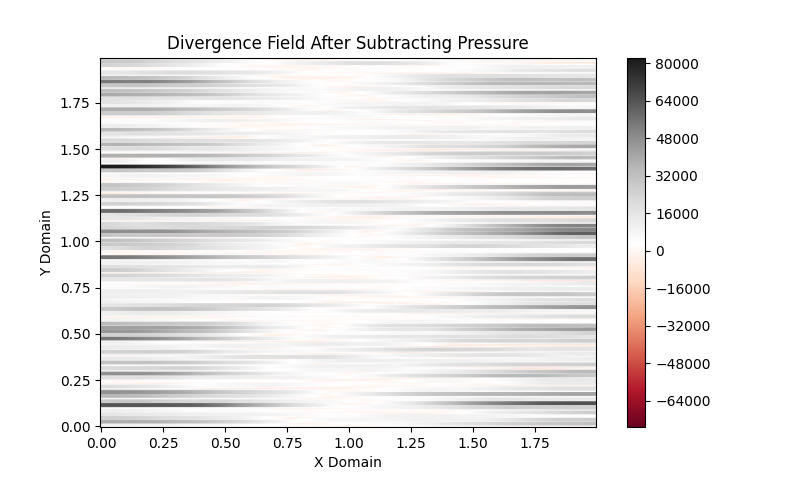
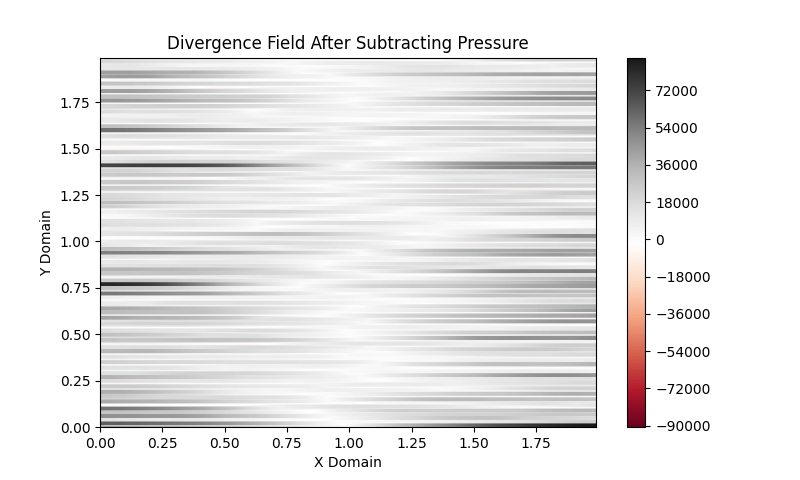
Updated code to be conversion of exact matlab solution provided by the professor

diff --git a/final_project/cfd_tools/simulations/fluid_profile.py b/final_project/cfd_tools/simulations/fluid_profile.py
@@ -1,66 +1,25 @@
-__all__ = ['FluidProfile', 'Field']
+__all__ = ['FluidProfile']
 
 from abc import ABC
 from typing import Tuple
 
 import numpy as np
 
+from .fields import Velocity as Vel, Pressure
 from cfd_tools import LinearMesh, get_dct2_solution
 
 VELOCITY_TUPLES = Tuple[np.ndarray, np.ndarray]
 
 
-class Field:
-    values: np.ndarray
-    mesh: LinearMesh
-    _partial_mesh: LinearMesh = None
-    _dy: np.ndarray = None
-    _dx: np.ndarray = None
-
-    def __init__(self,
-                 mesh: LinearMesh,
-                 values: np.ndarray):
-        """"""
-        self.values = values
-        self.mesh = mesh
-
-    @property
-    def dx(self) -> np.ndarray:
-        if self._dx is None:
-            self._dx = \
-                (self.values[:, 1:] - self.values[:, :-1]) / self.mesh.x_step
-        return self._dx
-
-    @property
-    def dy(self) -> np.ndarray:
-        if self._dy is None:
-            self._dy = \
-                (self.values[1:] - self.values[:-1]) / self.mesh.y_step
-        return self._dy
-
-    @property
-    def partial_mesh(self) -> LinearMesh:
-        if self._partial_mesh is None:
-            self._partial_mesh = LinearMesh(
-                x_start=self.mesh.x[0] + self.mesh.x_step / 2,
-                x_end=self.mesh.x[-1] - self.mesh.x_step / 2,
-                x_step=self.mesh.x_step,
-                y_start=self.mesh.y[0] + self.mesh.y_step / 2,
-                y_end=self.mesh.y[-1] - self.mesh.y_step / 2,
-                y_step=self.mesh.y_step,
-            )
-        return self._partial_mesh
-
-
 class FluidProfile(ABC):
-    _x_velocity: Field
-    _y_velocity: Field
-    __pressure: Field = None
+    _x_velocity: Vel
+    _y_velocity: Vel
+    __pressure: Pressure = None
 
-    def __init__(self, x_velocity: Field, y_velocity: Field):
+    def __init__(self, x_velocity: Vel, y_velocity: Vel):
         """"""
-        self._x_velocity: Field = x_velocity
-        self._y_velocity: Field = y_velocity
+        self._x_velocity = x_velocity
+        self._y_velocity = y_velocity
 
     @property
     def velocity_divergence(self) -> np.ndarray:
@@ -79,7 +38,7 @@ class FluidProfile(ABC):
         return self._y_velocity.partial_mesh
 
     @property
-    def _pressure(self) -> Field:
+    def _pressure(self) -> Pressure:
         if self.__pressure is None:
             laplacian_pressure = self.velocity_divergence
             self.__pressure = self._poisson_solver(laplacian_pressure)
@@ -91,12 +50,12 @@ class FluidProfile(ABC):
 
     @property
     def x_velocity(self) -> np.ndarray:
-        """check divergence, correct, then send"""
+        """check velocity_divergence.m, correct, then send"""
         return self._x_velocity.values
 
     @property
     def y_velocity(self) -> np.ndarray:
-        """check divergence, correct, then send"""
+        """check velocity_divergence.m, correct, then send"""
         return self._y_velocity.values
 
     def remove_divergence(self):
@@ -104,31 +63,41 @@ class FluidProfile(ABC):
         x_velocity = self._x_velocity.values
         y_velocity = self._y_velocity.values
 
-        # Remove divergence
-        x_velocity[:, 1:-1] -= self._pressure.dx
-        y_velocity[1:-1] -= self._pressure.dy
+        # Remove velocity_divergence.m
+        x_velocity[1:-2, 1:-1] -= self._pressure.dx
+        y_velocity[1:-1, 1:-2] -= self._pressure.dy
 
-        # Assert boundaries
+        # Assert boundaries.m
         x_velocity, y_velocity = \
             self._assert_boundary_conditions(x_velocity, y_velocity)
 
         # Update velocity profiles
-        self._x_velocity = Field(mesh=self._x_velocity.mesh, values=x_velocity)
-        self._y_velocity = Field(mesh=self._y_velocity.mesh, values=y_velocity)
+        self._x_velocity = Vel(mesh=self._x_velocity.mesh, values=x_velocity)
+        self._y_velocity = Vel(mesh=self._y_velocity.mesh, values=y_velocity)
 
     @staticmethod
     def _assert_boundary_conditions(x_velocity: np.ndarray,
                                     y_velocity: np.ndarray) -> VELOCITY_TUPLES:
         """"""
-        y_velocity[:2] = 0
-        y_velocity[-2:] = 0
+        # Bottom wall
+        y_velocity[0] = 0
+        # x_velocity[0] = 0
 
-        x_velocity[:, :2] = 0
-        x_velocity[:, -2:] = 0
+        # Top wall
+        y_velocity[-2] = 0
+        # x_velocity[-2] = 0
+
+        # Left wall
+        # y_velocity[:, 0] = 0
+        x_velocity[:, 0] = 0
+
+        # Right wall
+        # y_velocity[:, -1] = 0
+        x_velocity[:, -1] = 0
 
         return x_velocity, y_velocity
 
-    def _poisson_solver(self, laplacian_pressure: np.ndarray) -> Field:
+    def _poisson_solver(self, laplacian_pressure: np.ndarray) -> Pressure:
         """
         Integrate the poisson problem for the pressure gradient.
 
@@ -138,9 +107,9 @@ class FluidProfile(ABC):
         :return:
         """
         pressure = get_dct2_solution(
-            x_array=self.pressure_x_domain,
-            y_array=self.pressure_y_domain,
+            x_array=self.pressure_x_domain[:-1],
+            y_array=self.pressure_y_domain[:-1],
             z_array=laplacian_pressure,
         )
 
-        return Field(mesh=self.pressure_mesh, values=pressure)
+        return Pressure(mesh=self.pressure_mesh, values=pressure)

diff --git a/final_project/divergence_study.py b/final_project/divergence_study.py
@@ -3,14 +3,13 @@ from pathlib import Path
 
 import numpy as np
 
-from cfd_tools import FluidProfile, LinearMesh, plot_contour, Field
+from cfd_tools import FluidProfile, LinearMesh, plot_contour, Velocity
 
 
 def get_velocity_field(component: np.ndarray, array: np.ndarray) -> np.ndarray:
     rand = np.random.random((len(array), len(component)))
-    rand[:, :2] = rand[:, -2:] = 0
-    rand[0] = rand[-1] = 0
-    rand[1:-1, 2:-2] -= rand[1:-1, 2:-2].mean(axis=0)
+    rand[0] = rand[-2] = 0
+    # rand[0] = rand[-1] = 0
     return rand
 
 
@@ -19,36 +18,28 @@ x_half_s = x_step / 2
 y_start, y_end, y_step = 0, 2, .01
 y_half_s = y_step / 2
 
-x_velocity_grid = LinearMesh(
-    x_start=x_start - x_step, x_end=x_end + x_step, x_step=x_step,
-    y_start=y_start - y_half_s, y_end=y_end + y_half_s, y_step=y_step,
+velocity_grid = LinearMesh(
+    x_start=x_start - x_half_s, x_end=x_end + x_step, x_step=x_step,
+    y_start=y_start - y_half_s, y_end=y_end + y_step, y_step=y_step,
 )
 
-y_velocity_grid = LinearMesh(
-    x_start=x_start - x_half_s, x_end=x_end + x_half_s, x_step=x_step,
-    y_start=y_start - y_step, y_end=y_end + y_step, y_step=y_step,
+x_velocity = Velocity(
+    values=get_velocity_field(velocity_grid.x, velocity_grid.y),
+    mesh=velocity_grid,
 )
 
-x_velocity = Field(
-    values=get_velocity_field(x_velocity_grid.x, x_velocity_grid.y),
-    mesh=x_velocity_grid,
+y_velocity = Velocity(
+    values=get_velocity_field(velocity_grid.x, velocity_grid.y).T,
+    mesh=velocity_grid,
 )
-
-y_velocity = Field(
-    values=get_velocity_field(y_velocity_grid.y, y_velocity_grid.x).T,
-    mesh=y_velocity_grid,
-)
-
-print(f"Max U average along y_axis: {x_velocity.values.mean(axis=0).max()}")
-print(f"Max V average along x_axis: {y_velocity.values.mean(axis=1).max()}\n")
 
 deliverable = FluidProfile(x_velocity, y_velocity)
 
 prior_divergence = deliverable.velocity_divergence
-print(f"Maximum divergence before subtracting pressure {prior_divergence.max()}")
+print(f"Maximum velocity_divergence before subtracting pressure {prior_divergence.max()}")
 deliverable.remove_divergence()
 post_divergence = deliverable.velocity_divergence
-print(f"Maximum divergence after subtracting pressure {post_divergence.max()}")
+print(f"Maximum velocity_divergence after subtracting pressure {post_divergence.max()}")
 print()
 
 output_dir = Path(__file__).parent / "plots/divergence_study"
@@ -57,8 +48,8 @@ for png in output_dir.rglob("*.png"):
     os.remove(png)
 
 fig, ax = plot_contour(
-    x_array=deliverable.pressure_x_domain,
-    y_array=deliverable.pressure_y_domain,
+    x_array=deliverable.pressure_x_domain[:-1],
+    y_array=deliverable.pressure_y_domain[:-1],
     z_array=prior_divergence,
     title="Divergence Field Prior to Subtracting Pressure",
     x_label="X Domain",
@@ -67,8 +58,8 @@ fig, ax = plot_contour(
 fig.savefig(output_dir / "divergence_before_pressure.png")
 
 fig, ax = plot_contour(
-    x_array=deliverable.pressure_x_domain,
-    y_array=deliverable.pressure_y_domain,
+    x_array=deliverable.pressure_x_domain[:-1],
+    y_array=deliverable.pressure_y_domain[:-1],
     z_array=post_divergence,
     title="Divergence Field After Subtracting Pressure",
     x_label="X Domain",
@@ -86,8 +77,8 @@ comp_precision = np.isclose(post_divergence, 0).sum() \
 
 print(f"""
 Unfortunately the python contour plot is not able to generate a plot indicating 
-regions where the divergence is less than computer precision but below is a list 
-of statistics regarding the divergence after subtracting the pressure gradient:
+regions where the velocity_divergence is less than computer precision but below is a list 
+of statistics regarding the velocity_divergence after subtracting the pressure gradient:
 \n
 Average Value = {average}\n
 Absolute Average = {abs_average}\n

diff --git a/final_project/cfd_tools/__init__.py b/final_project/cfd_tools/__init__.py
@@ -6,7 +6,8 @@ __all__ = [
     "plot_contour",
     "LinearMesh",
     "plot_convergence",
-    "Field",
+    'Velocity',
+    'Pressure',
     "FluidProfile",
 ]
 
@@ -14,6 +15,7 @@ from .calculus import get_dct2_solution
 from .convergence import p_norm, infinity_norm, get_convergence_fit
 from .plots import plot_contour, plot_convergence
 from .mesh import LinearMesh
-from .simulations import FluidProfile, Field
+from .simulations import FluidProfile, Velocity, Pressure
+
 
 __version__ = 1.0

diff --git a/final_project/cfd_tools/simulations/__init__.py b/final_project/cfd_tools/simulations/__init__.py
@@ -1,3 +1,5 @@
-__all__ = ['FluidProfile', 'Field']
+__all__ = ['FluidProfile', 'Velocity', 'Pressure']
 
-from .fluid_profile import FluidProfile, Field
+from .fluid_profile import FluidProfile
+from .fields import Velocity, Pressure
+
